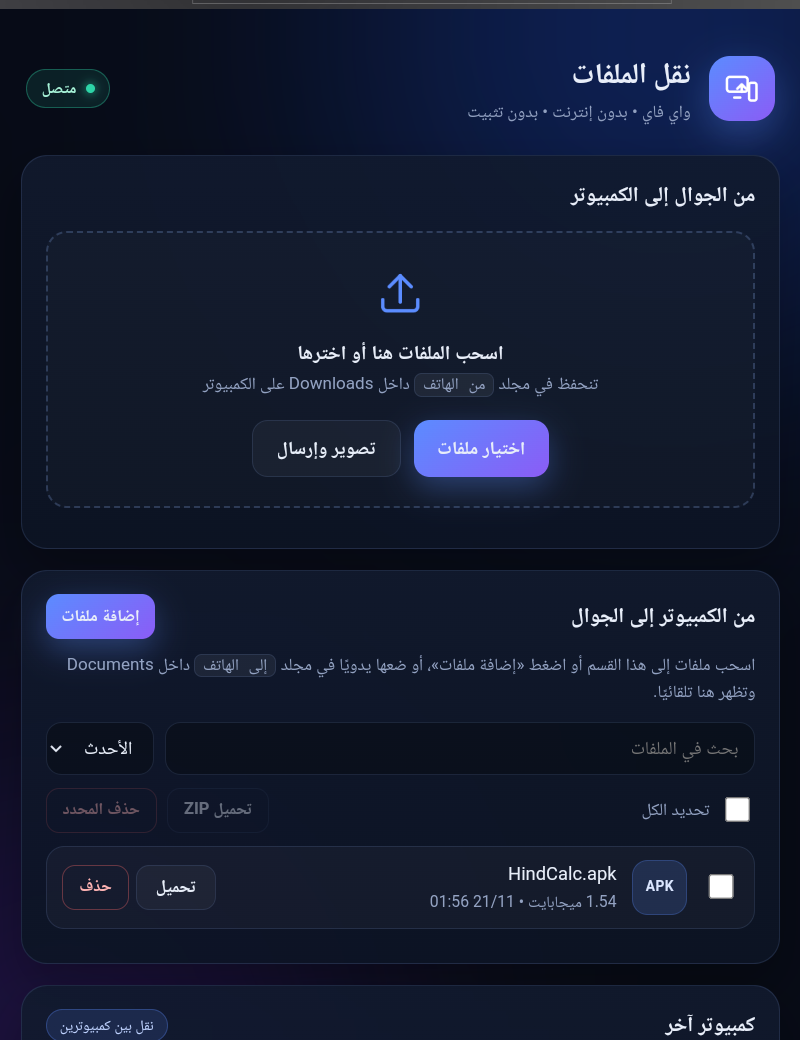
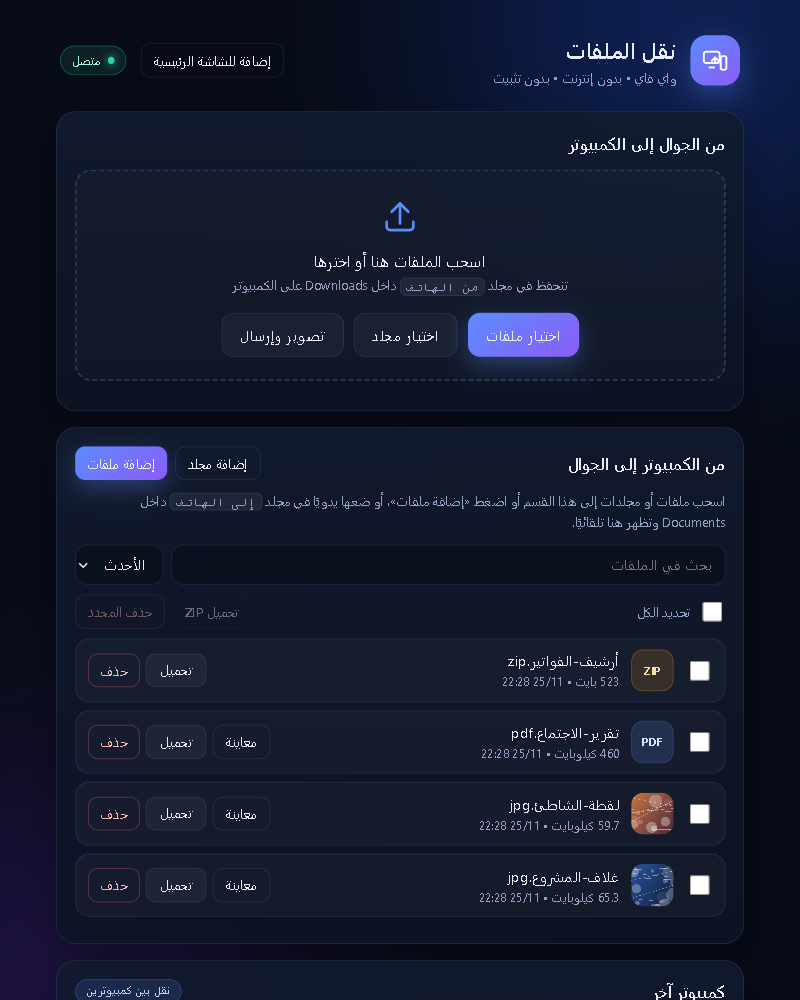
Refresh screenshots for the 1.1 interface

diff --git a/README.md b/README.md
@@ -8,13 +8,14 @@
 [![نسخة محمولة](https://img.shields.io/badge/download-Portable-blue)](https://github.com/essa808/wifi-file-transfer/releases/latest)
 
 ![واجهة الجوال](docs/screenshot-phone.png)
+![السجل ومزامنة النصوص](docs/screenshot-history.png)
 
 ## تحميل التطبيق الجاهز
 
 الملفات الجاهزة موجودة في صفحة **Releases** لهذا المستودع:
 
 - `WiFi-File-Transfer-Setup14.exe` — المثبت (يشمل Node.js ويعمل بدون إنترنت).
-- `WiFi-File-Transfer-portable.zip` — نسخة محمولة بدون تثبيت.
+- `WiFi-File-Transfer-portable.zip` — نسخة محمولة بدون تثبيت (يتطلب Node.js 18 أو أحدث).
 
 التحديث فوق نسخة مثبتة يحافظ على بياناتك: التوكن وروابط الأجهزة المربوطة والملفات.
 
